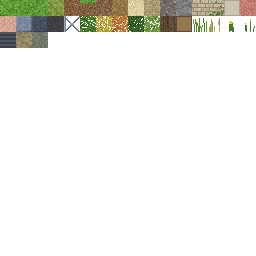
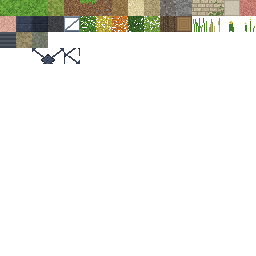
Tablier : acier gris bleuté et poutres latérales en croisillons lisibles
Cause du tablier presque blanc : les faces verticales côté caméra
reçoivent le soleil rasant avec N.L = 0,56 contre 0,08 pour le sol
(exposition réglée sur le sol) ; l'albédo de l'acier (≈ 117,133,150)
y sortait vers 208 et le reflet spéculaire, renvoyé presque exactement
vers l'objectif, ajoutait un voile neutre qui effaçait la teinte bleue.

- textures.py : steel / steel_dark assombris et bleutés (plats de 0,5 m
  avec rivets), treillis de passerelle en N (lattice), nouvelles tuiles
  truss_a/b/c (50-52) : panneau 2 m x 1,5 m, croisillon en X, gousset
  en losange, montant et goussets d'angle.
- mesher.py : poutres latérales refaites (membrures de 0,5 m, panneaux
  découpés de 1,5 m tous les 2 m), pièces de pont minces entre les
  poutres, passerelle en treillis pendue sous le tablier devant les
  piles ; acier sorti dans deux maillages dédiés (steel, truss).
- scene.py : matériaux steel / truss quasi mats (rugosité 0,9,
  spéculaire 0,05) et sans translucidité. Éclairage inchangé.

Claude-Session: https://claude.ai/code/session_0142cakWnYwG88KjocZSMvBt

Changed region(s): [[0.125, 0.1875, 0.3125, 0.25], [0.0625, 0.0625, 0.1875, 0.125], [0.25, 0.0625, 0.3125, 0.125]]

diff --git a/pipeline/mc/textures.py b/pipeline/mc/textures.py
@@ -105,30 +105,30 @@ def pink(seed,light=False):
         y0=rng.integers(0,8); img[y0:y0+rng.integers(4,10),x]-=10
     return np.clip(img,0,255).astype(np.uint8)
 put("pink",15,pink(18)); put("pink_light",16,pink(19,True))
-# acier
+# acier du tablier : gris bleuté volontairement sombre. Les faces verticales côté caméra reçoivent
+# le soleil rasant (N.L 0,56 contre 0,08 pour le sol) : un albédo clair y sortait presque blanc.
 def steel(seed,dark=False):
     rng=np.random.default_rng(seed)
-    if dark: base=[C(70,80,94),C(62,71,84),C(78,89,104)]
-    else:    base=[C(122,138,156),C(112,127,145),C(132,148,166),C(104,118,136)]
+    if dark: base=[C(38,44,56),C(34,40,51),C(43,50,63)]
+    else:    base=[C(57,66,86),C(53,61,80),C(62,72,92),C(49,57,74)]
     img=pal_img(rng,base,[5,4,3,2][:len(base)],blob=2).astype(int)
-    edge=-26 if not dark else -14
-    img[0,:]+=12; img[:,0]+=8; img[-1,:]+=edge; img[:,-1]+=edge
-    if not dark:
-        for (y,x) in [(2,2),(2,13),(13,2),(13,13),(2,7),(13,7)]:
-            img[y,x]+=34; img[y+1,x+1]-=20
+    for y0 in (0,8):   # deux plats de 0,5 m par tuile (une membrure montre une moitié) : arêtes + rivets
+        img[y0,:]+=9; img[y0+7,:]-=9
+        if not dark:
+            for x in range(1,T,4): img[y0+3,x]+=20; img[y0+4,x]-=8
+    img[:,0]+=5; img[:,-1]-=8
     return np.clip(img,0,255).astype(np.uint8)
 put("steel",17,steel(20)); put("steel_dark",18,steel(21,True))
 AS=[C(64,66,70),C(56,58,62),C(74,76,80),C(50,52,56)]
 put("asphalt",19,pal_img(np.random.default_rng(22),AS,[5,4,2,2],blob=1))
-# treillis (alpha) : poteau + X
+# treillis (alpha) de la passerelle de pile : membrures, montants, diagonale (panneau en N) ;
+# plus clair que le tablier car sa face côté caméra est toujours à l'ombre
+GM=np.array(C(104,118,138)+(255,),np.uint8); GH=np.array(C(124,138,158)+(255,),np.uint8); GK=np.array(C(78,90,108)+(255,),np.uint8)
 lat=np.zeros((T,T,4),np.uint8)
-col=np.array(C(118,134,152)+(255,),np.uint8); dk=np.array(C(86,99,116)+(255,),np.uint8); hl=np.array(C(150,166,184)+(255,),np.uint8)
-for i in range(T):
-    for d in (0,1):
-        for (x,y) in [(i,i+d),(T-1-i,i+d)]:
-            if 0<=y<T: lat[y,x]=col if d==0 else dk
-lat[:,0:2]=col; lat[:,0]=hl
-lat[7:9,6:10]=hl      # gousset central
+lat[0:2,:]=GM; lat[0,:]=GH; lat[14:16,:]=GM; lat[15,:]=GK
+lat[:,0]=GH; lat[:,15]=GM          # montant partagé avec le panneau voisin (1 px de chaque côté)
+for x in range(1,T-1):
+    y=int(round(13-(x-1)*11/13)); lat[y,x]=GH; lat[min(y+1,13),x]=GM
 put("lattice",20,lat)
 # feuilles (alpha)
 def leaves(seed,pal,hole=0.14):
@@ -193,6 +193,29 @@ put("mossy_stone",34,pal_img(np.random.default_rng(34),MS,[5,4,2,2],blob=2))
 # ext:greve
 # ext:rive
 # ext:tablier
+# panneau de poutre latérale 2 m x 1,5 m (32x24 px, alpha) : croisillon en X, gousset en losange,
+# montant sous le gousset, goussets d'angle. Découpé en 3 tuiles : haut gauche, haut droite, bas (2 demi-tuiles)
+SM=np.array(C(56,65,85)+(255,),np.uint8); SH=np.array(C(63,73,94)+(255,),np.uint8); SK=np.array(C(36,42,55)+(255,),np.uint8)
+PH,PW=24,32
+pan=np.zeros((PH,PW,4),np.uint8)
+for x in range(PW):                                  # diagonales en escalier, 2 px
+    for xx in (x,PW-1-x):
+        y=int(x*(PH-1)/(PW-1)+0.5)
+        pan[y,xx]=SH
+        if y+1<PH: pan[y+1,xx]=SM
+pan[15:PH,15:17]=SM; pan[15:PH,15]=SH                # montant vertical
+yy,xx=np.mgrid[0:PH,0:PW]
+for (cx,cy) in ((0,0),(PW,0),(0,PH),(PW,PH)):       # goussets d'angle (se rejoignent d'un panneau à l'autre)
+    tri=np.abs(xx+0.5-cx)+np.abs(yy+0.5-cy)*1.2<5
+    pan[tri]=SM
+dia=np.abs(xx-15.5)/7.5+np.abs(yy-11.5)/6.0          # gousset central en losange
+GP=np.array(C(66,77,98)+(255,),np.uint8)
+pan[dia<=1.0]=SK; pan[dia<=0.8]=GP
+pan[(dia<=0.8)&((yy-11.5)/6.0+(xx-15.5)/7.5<0)&(dia>0.6)]=np.array(C(75,87,109)+(255,),np.uint8)   # arête éclairée
+for (ry,rx) in ((11,15),(11,10),(11,21),(8,15),(15,15)):
+    pan[ry,rx]=np.array(C(88,100,122)+(255,),np.uint8); pan[ry+1,rx]=SK   # rivets
+put("truss_a",50,pan[0:16,0:16]); put("truss_b",51,pan[0:16,16:32])
+put("truss_c",52,np.concatenate([pan[16:24,0:16],pan[16:24,16:32]],0))
 Image.fromarray(atlas,"RGBA").save("atlas.png")
 import json; json.dump(TILES,open("tiles.json","w"),indent=0)
 # aperçu agrandi

diff --git a/pipeline/mc/mesher.py b/pipeline/mc/mesher.py
@@ -111,21 +111,36 @@ def box(QQ,x0,x1,y0,y1,z0,z1,tt_,ts,tb):
 DECK_S0,DECK_S1=-75.0,345.0
 L=DECK_S1-DECK_S0
 st=Tn("steel"); sd=Tn("steel_dark"); asp=Tn("asphalt"); lat=Tn("lattice"); cab=Tn("cable")
-# tablier : chaussée + membrures + treillis + pièces de pont
+QS,QT=Q(),Q()     # acier du tablier, matériau mat dédié (scene.py) : pleins / treillis découpé
+def quad_uv(QQ,o,eu,ev,tile,v0=0.0,v1=1.0,flip=False):
+    """un quad o+eu*a+ev*b (a,b in [0,1]) -> tuile entière, ou bande [v0,v1] de la tuile ; flip = miroir en u"""
+    o=np.array(o,np.float32); eu=np.array(eu,np.float32); ev=np.array(ev,np.float32)
+    V=[o,o+eu,o+eu+ev,o+ev]
+    uu=np.array([1,0,0,1.]) if flip else np.array([0,1,1,0.])
+    vv=np.clip(np.array([v0,v0,v1,v1]),v0+EPS,v1-EPS)
+    u,v=tile_uv(tile,uu,vv); QQ.add(np.array([V]),np.stack([u,v],-1)[None])
+# tablier : poutres latérales hautes (membrure basse 9,5-10, panneaux en X 10-11,5, membrure haute 11,5-12)
+ZB,ZP,ZT=9.5,10.0,11.5
 for s0 in np.arange(DECK_S0,DECK_S1,20.0):
     s1=min(s0+20,DECK_S1)
-    box(QO,s0,s1,-3,3,9.5,10,asp,sd,sd)                     # chaussée
-    for tc in (3,-4):                                        # membrures basse/haute (t in [3,4] et [-4,-3])
-        box(QO,s0,s1,tc,tc+1,9.5,10.5,st,st,sd)
-        box(QO,s0,s1,tc,tc+1,11.5,12.0,st,st,sd)
-    for tp in (3.5,-3.5):                                    # treillis (plan alpha)
-        face_grid(QC,(s0,tp,10.5),(1,0,0),(0,0,1),s1-s0,1.0,lat)
-for s in np.arange(DECK_S0,DECK_S1,2.0):                     # pièces de pont
-    box(QO,s,s+0.5,-4,4,9.0,9.5,sd,sd,sd)
-    # poteaux verticaux du treillis tous les 4 m
-    if int(s)%4==0:
-        for tc in (3.25,-3.75):
-            box(QO,s,s+0.5,tc,tc+0.5,10.5,11.5,st,st,st)
+    box(QS,s0,s1,-3.5,3.5,9.5,10,asp,sd,sd)                 # chaussée (dessous acier sombre)
+    for ta in (3.5,-4.0):                                    # membrures des deux poutres (t in [3.5,4] et [-4,-3.5])
+        box(QS,s0,s1,ta,ta+0.5,ZB,ZP,st,st,sd)
+        box(QS,s0,s1,ta,ta+0.5,ZT,ZT+0.5,st,st,sd)
+tA,tB,tC=Tn("truss_a"),Tn("truss_b"),Tn("truss_c")
+for s in np.arange(DECK_S0,DECK_S1,2.0):
+    for tp in (3.75,-3.75):                                  # panneau 2 m x 1,5 m : croisillon + gousset en losange
+        # vu depuis +t (caméra) : +s part vers la gauche, d'où le miroir (arête éclairée du gousset côté soleil)
+        quad_uv(QT,(s,tp,ZP+0.5),(1,0,0),(0,0,1),tB,flip=True); quad_uv(QT,(s+1,tp,ZP+0.5),(1,0,0),(0,0,1),tA,flip=True)
+        quad_uv(QT,(s,tp,ZP),(1,0,0),(0,0,0.5),tC,0.0,0.5,True); quad_uv(QT,(s+1,tp,ZP),(1,0,0),(0,0,0.5),tC,0.5,1.0,True)
+    box(QS,s-0.25,s+0.25,-3.5,3.5,9.25,9.5,sd,sd,sd)         # pièces de pont minces (leurs abouts prennent le soleil rasant)
+# passerelle de visite en treillis devant chaque pile, pendue sous le tablier (photo : côté caméra de la pile)
+for sc in (0.0,260.0):
+    sp=sc-2.4
+    for k,t in enumerate(np.arange(-8.0,4.0,1.5)):
+        quad_uv(QT,(sp,t,7.5),(0,1.5,0),(0,0,1.5),lat,flip=bool(k%2))
+    for t,zt in ((-8.0,9.0),(4.0,9.5)):                      # montants : vers le chaperon de la pile / sous la membrure
+        box(QS,sp-0.1,sp+0.1,t-0.1,t+0.1,7.5,zt,st,st,st)
 # câbles porteurs (segments de 0.5 m, hauteur quantifiée au 1/16)
 def cable_z(s):
     if s<0:   return 30.35+0.45*s+0.0011*s*s
@@ -197,5 +212,7 @@ for i,j in np.argwhere(cm):
     QK.add(np.array(Vs),np.zeros((len(Vs),4,2)))
 out={}
 for name,QQ in (("opaque",QO),("cutout",QC),("water",QW),("cloud",QK),("plants",QP)):
+    V,U=QQ.arr(); out["V_"+name]=V; out["U_"+name]=U; print(name,len(V),"quads")
+for name,QQ in (("steel",QS),("truss",QT)):   # tablier : acier mat (matériaux dédiés dans scene.py)
     V,U=QQ.arr(); out["V_"+name]=V; out["U_"+name]=U; print(name,len(V),"quads")
 np.savez_compressed("world.npz",**out)

diff --git a/pipeline/mc/scene.py b/pipeline/mc/scene.py
@@ -125,6 +125,17 @@ def mat_cloud():
     return m
 MATS={"opaque":mat_blocks("blocks"),"cutout":mat_blocks("cutout",True),"water":mat_water(),"cloud":mat_cloud()}
 MATS["plants"]=MATS["cutout"]
+def mat_steel(name,cutout=False):
+    """acier du tablier : quasi mat (le reflet du soleil rasant sur les faces côté caméra, qui renvoient
+    presque exactement vers l'objectif, les blanchissait) ; treillis sans translucidité"""
+    m=mat_blocks(name,cutout)
+    for n in m.node_tree.nodes:
+        if n.type=='BSDF_PRINCIPLED':
+            n.inputs["Roughness"].default_value=0.9; n.inputs["Specular IOR Level"].default_value=0.05
+        if n.type=='MIX_SHADER' and any(l.from_node.type=='BSDF_TRANSLUCENT' for l in n.inputs[2].links):
+            n.inputs[0].default_value=0.0
+    return m
+MATS["steel"]=mat_steel("steel"); MATS["truss"]=mat_steel("truss",True)
 
 # ---------------- maillages (foreach_set)
 def make_mesh(name,V,U,mat):
@@ -140,6 +151,8 @@ def make_mesh(name,V,U,mat):
     return ob
 t0=time.time()
 for k in ("opaque","cutout","water","cloud","plants"):
+    if "V_"+k in W.files: make_mesh(k,W["V_"+k],W["U_"+k],MATS[k])
+for k in ("steel","truss"):     # tablier (mesher.py)
     if "V_"+k in W.files: make_mesh(k,W["V_"+k],W["U_"+k],MATS[k])
 print("meshes built",round(time.time()-t0,1),"s")
 # plan d'eau lointain (hors monde voxel) et terre lointaine
